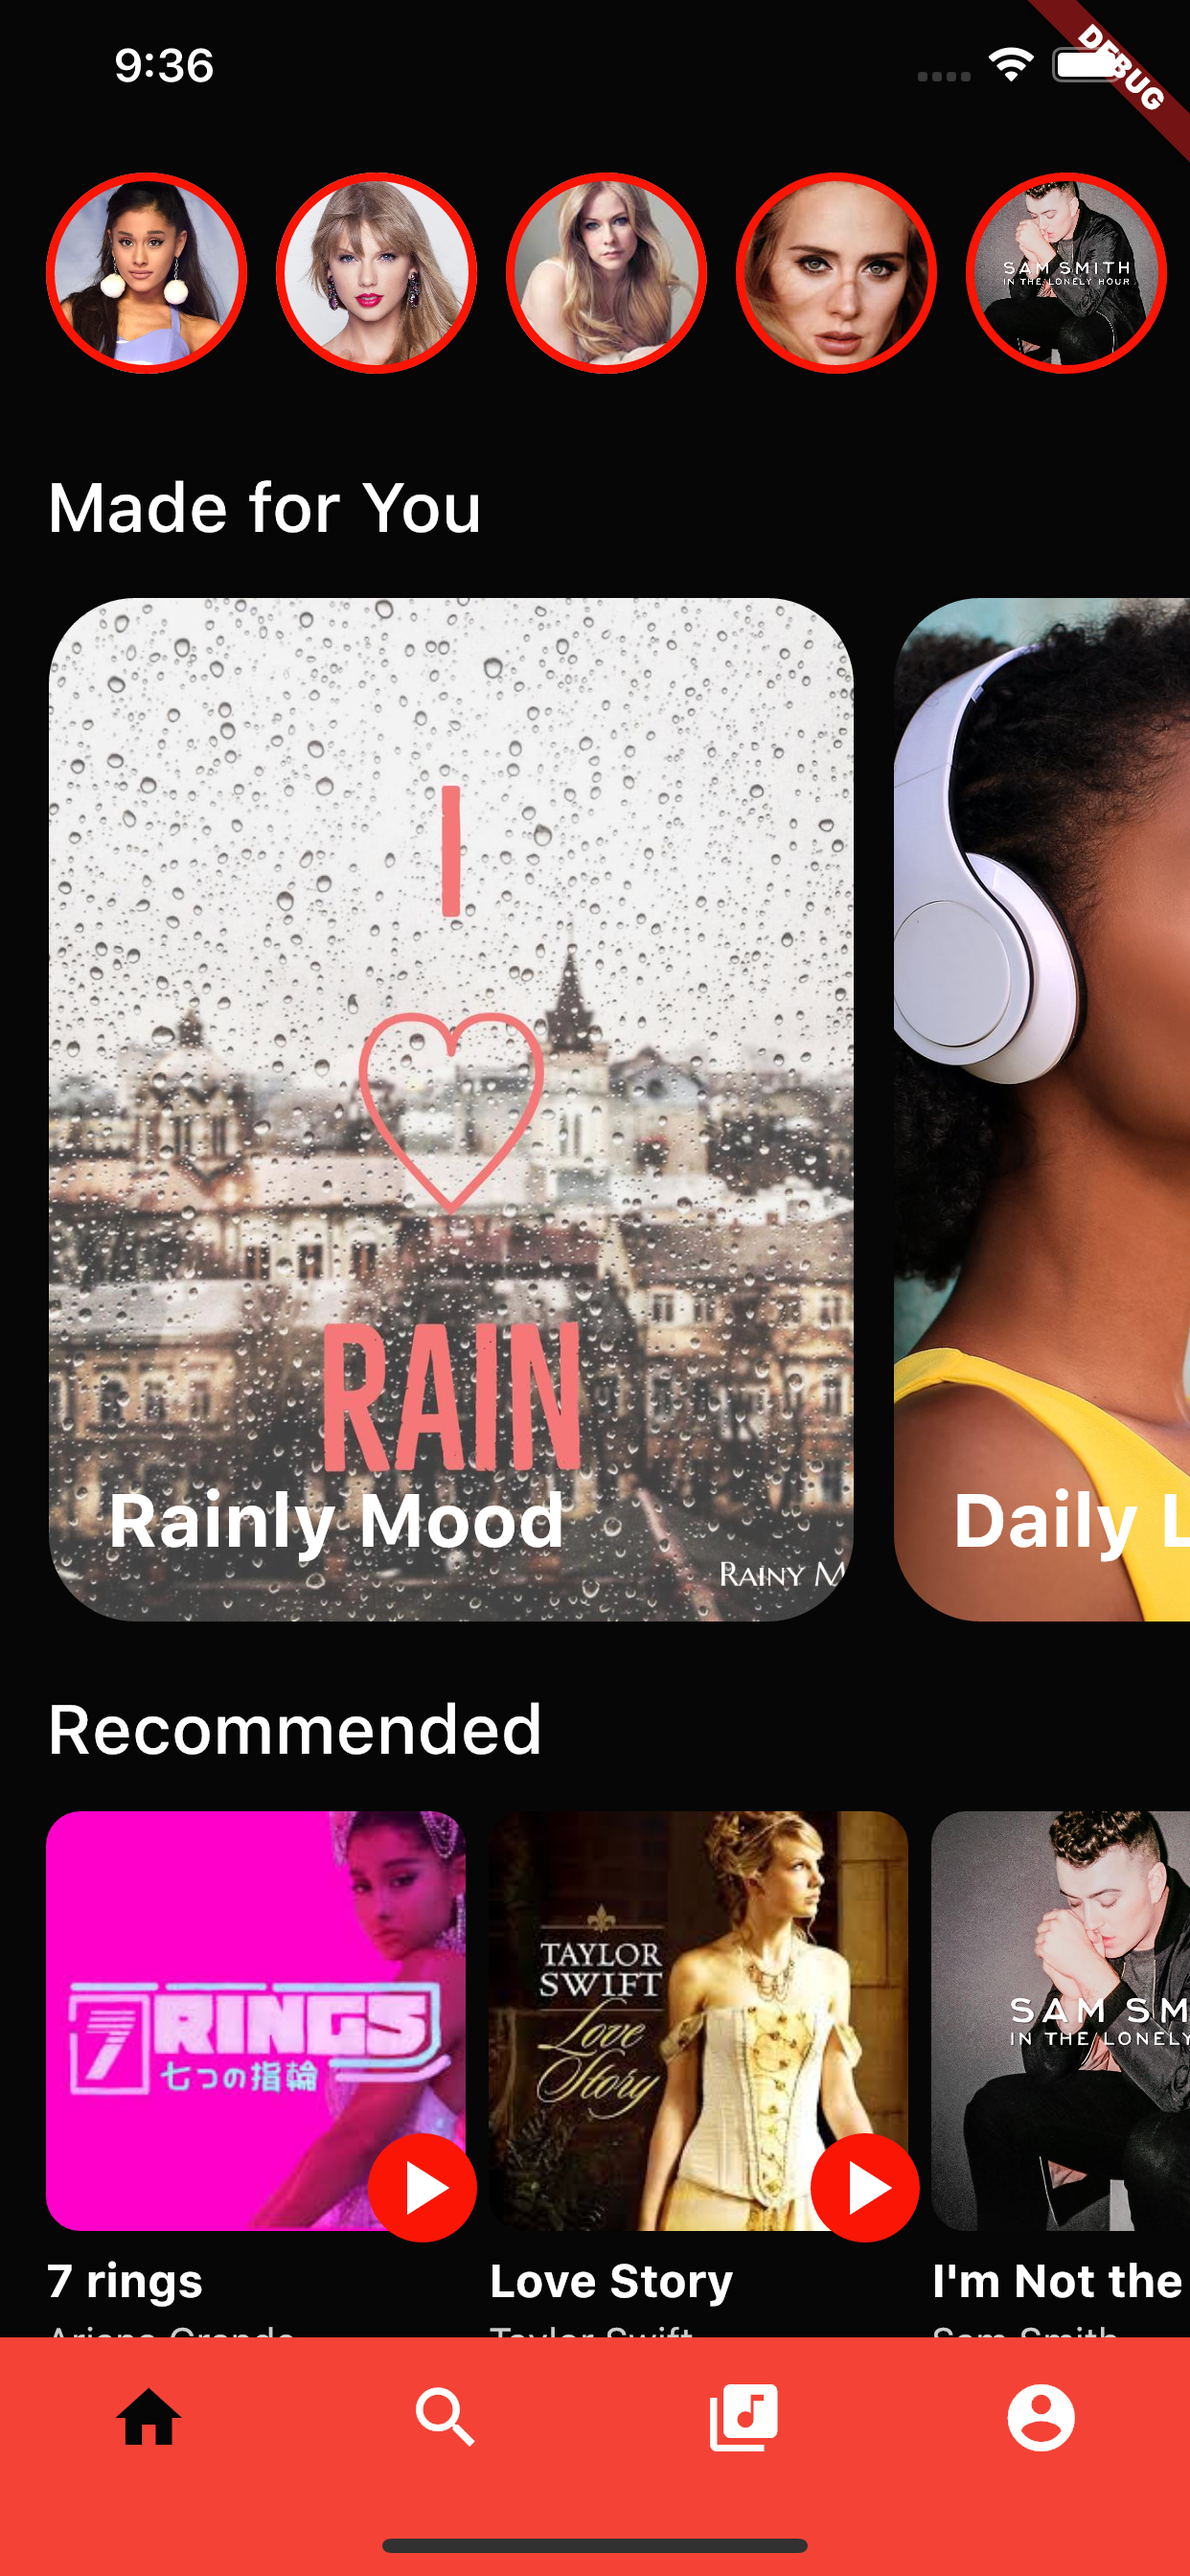
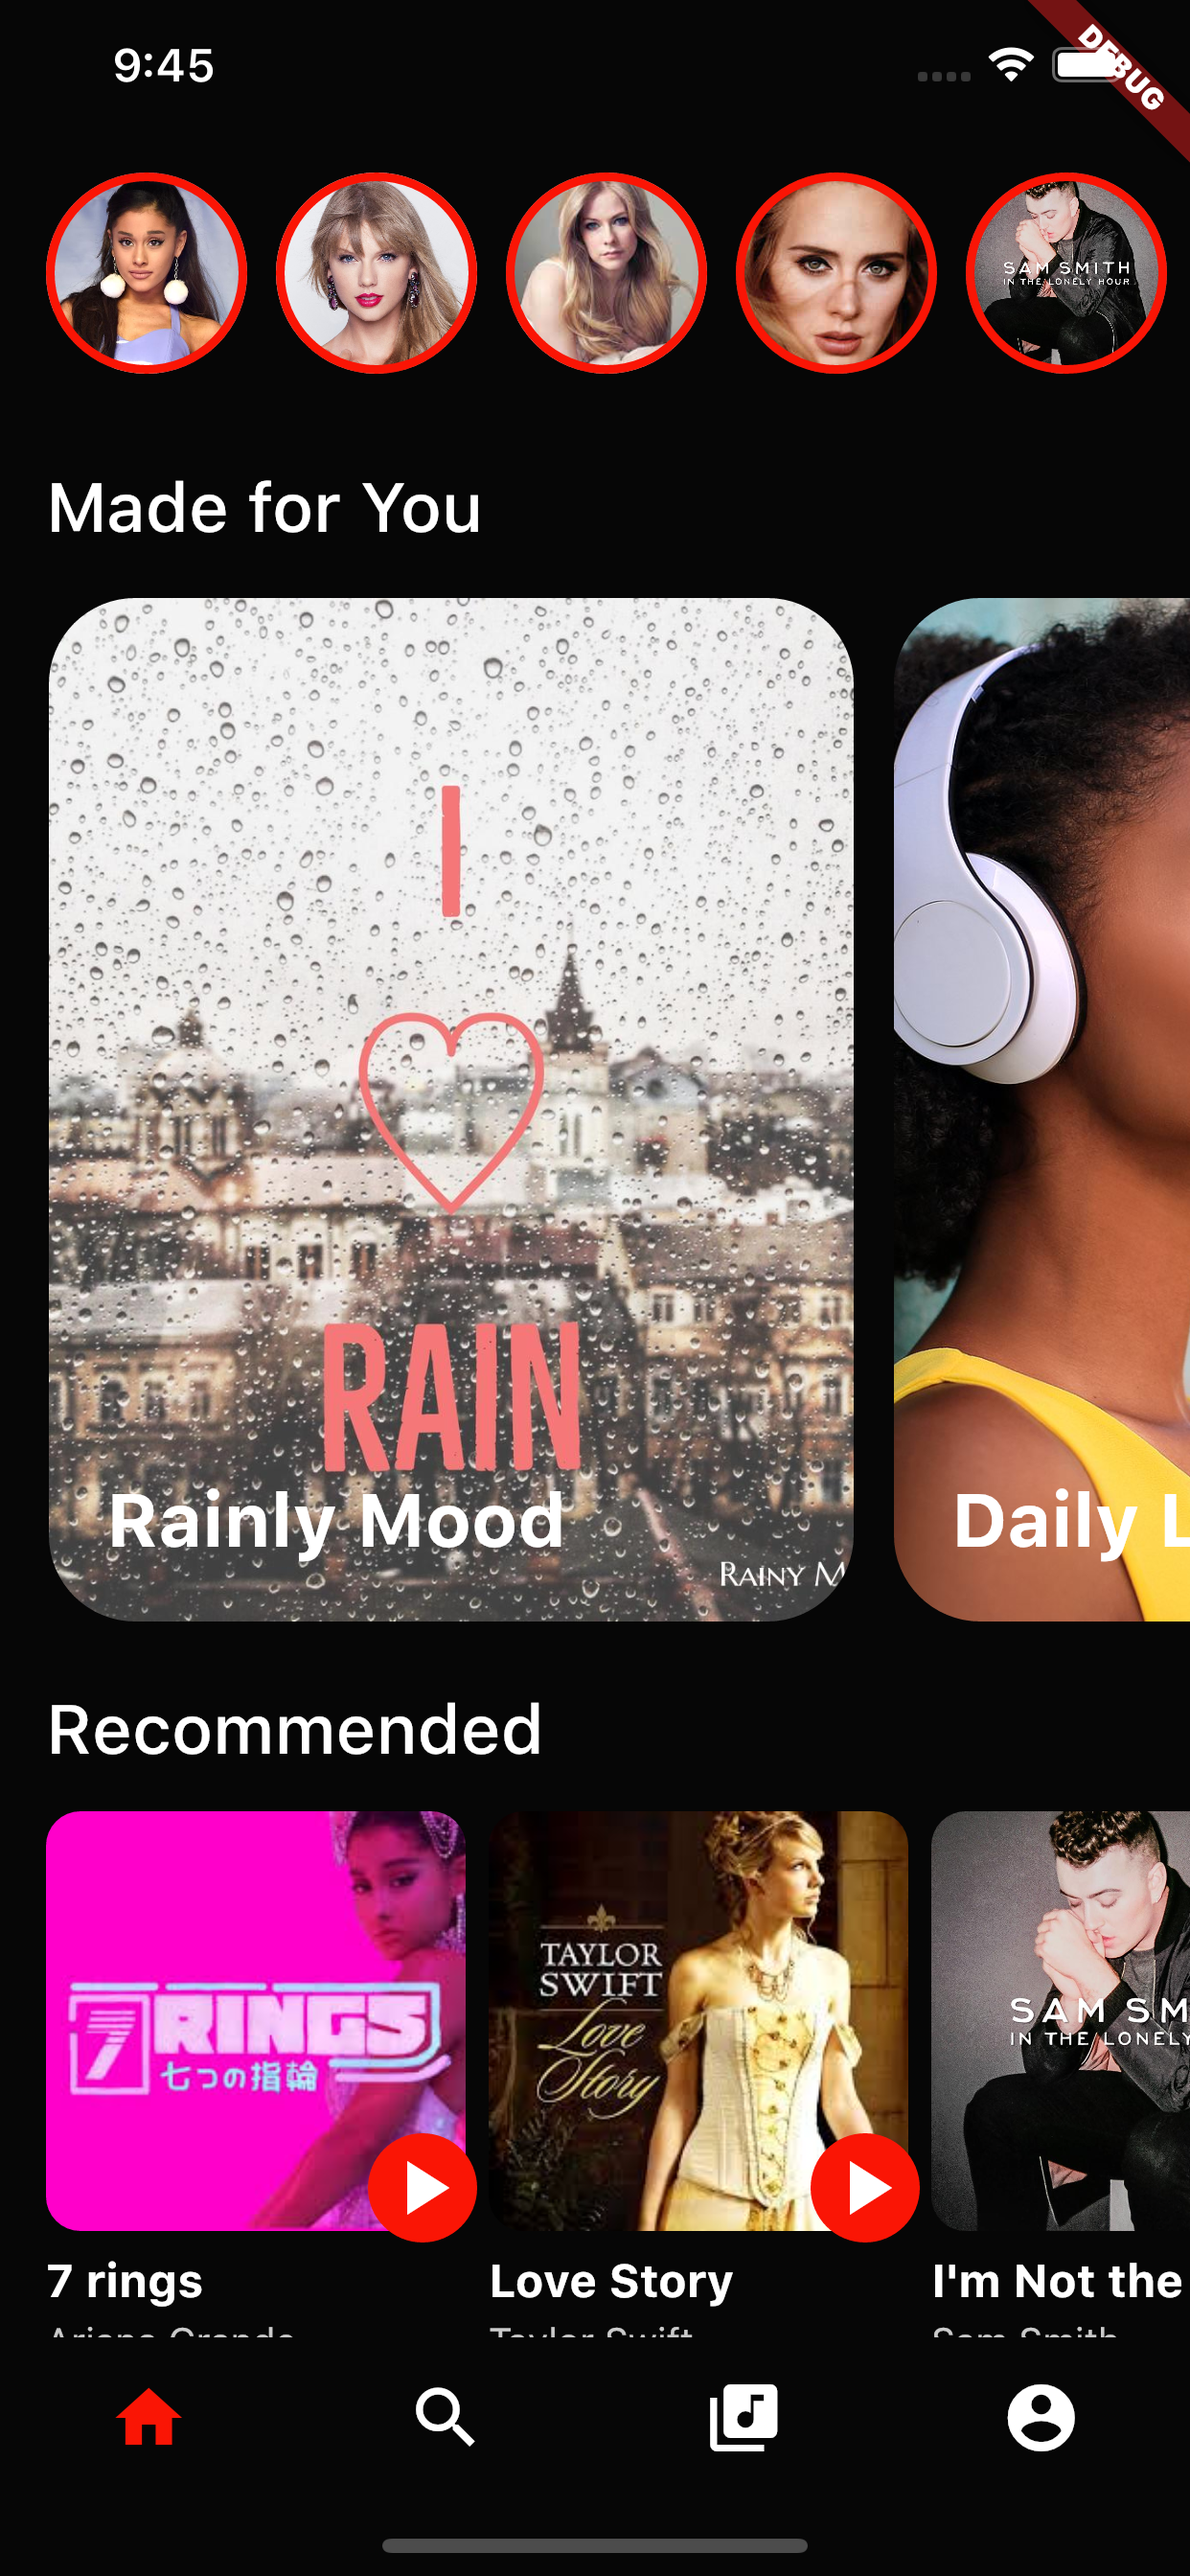
modify TabBar backgroundColor

Changed region(s): [[0.0, 0.9062, 1.0, 1.0], [0.1224, 0.0, 0.153, 0.0312]]

diff --git a/music_app/lib/screens/home_screen.dart b/music_app/lib/screens/home_screen.dart
@@ -175,10 +175,10 @@ class _MyHomePageState extends State<MyHomePage> {
         ),
       ],
       type: BottomNavigationBarType.fixed,
-      elevation: 0.0,
+      // elevation: 0.0,
       iconSize: 28.0,
-      backgroundColor: Colors.red,
-      selectedItemColor: Theme.of(context).primaryColor,
+      backgroundColor: Theme.of(context).primaryColor,
+      selectedItemColor: Theme.of(context).accentColor,
       unselectedItemColor: Colors.white,
       onTap: _onItemTapped,
     );
